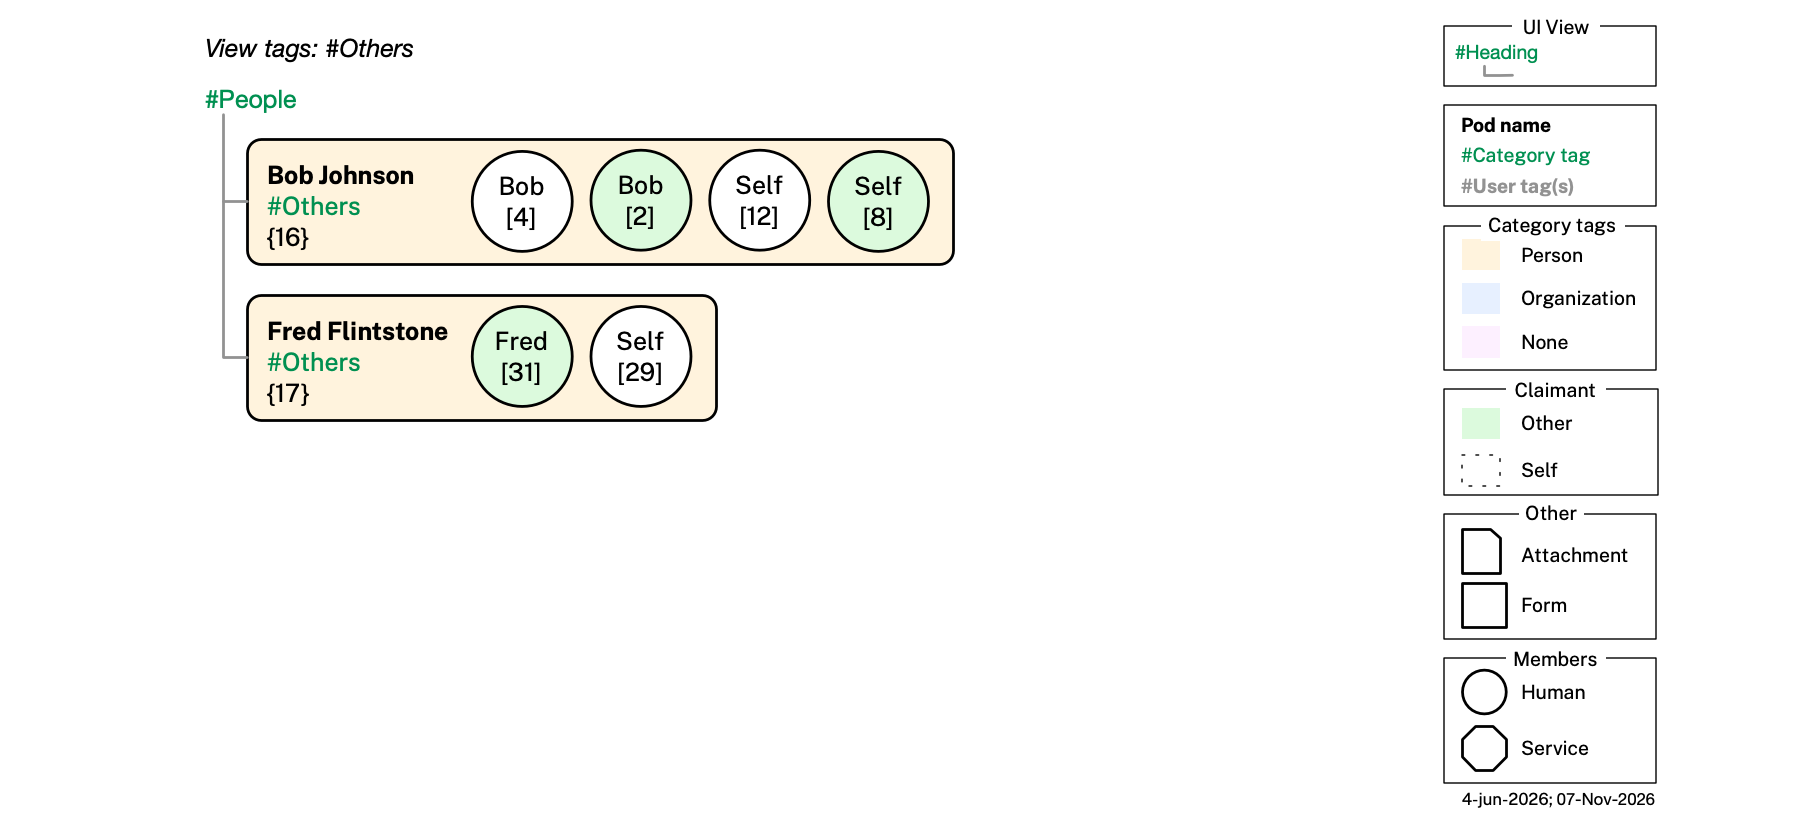
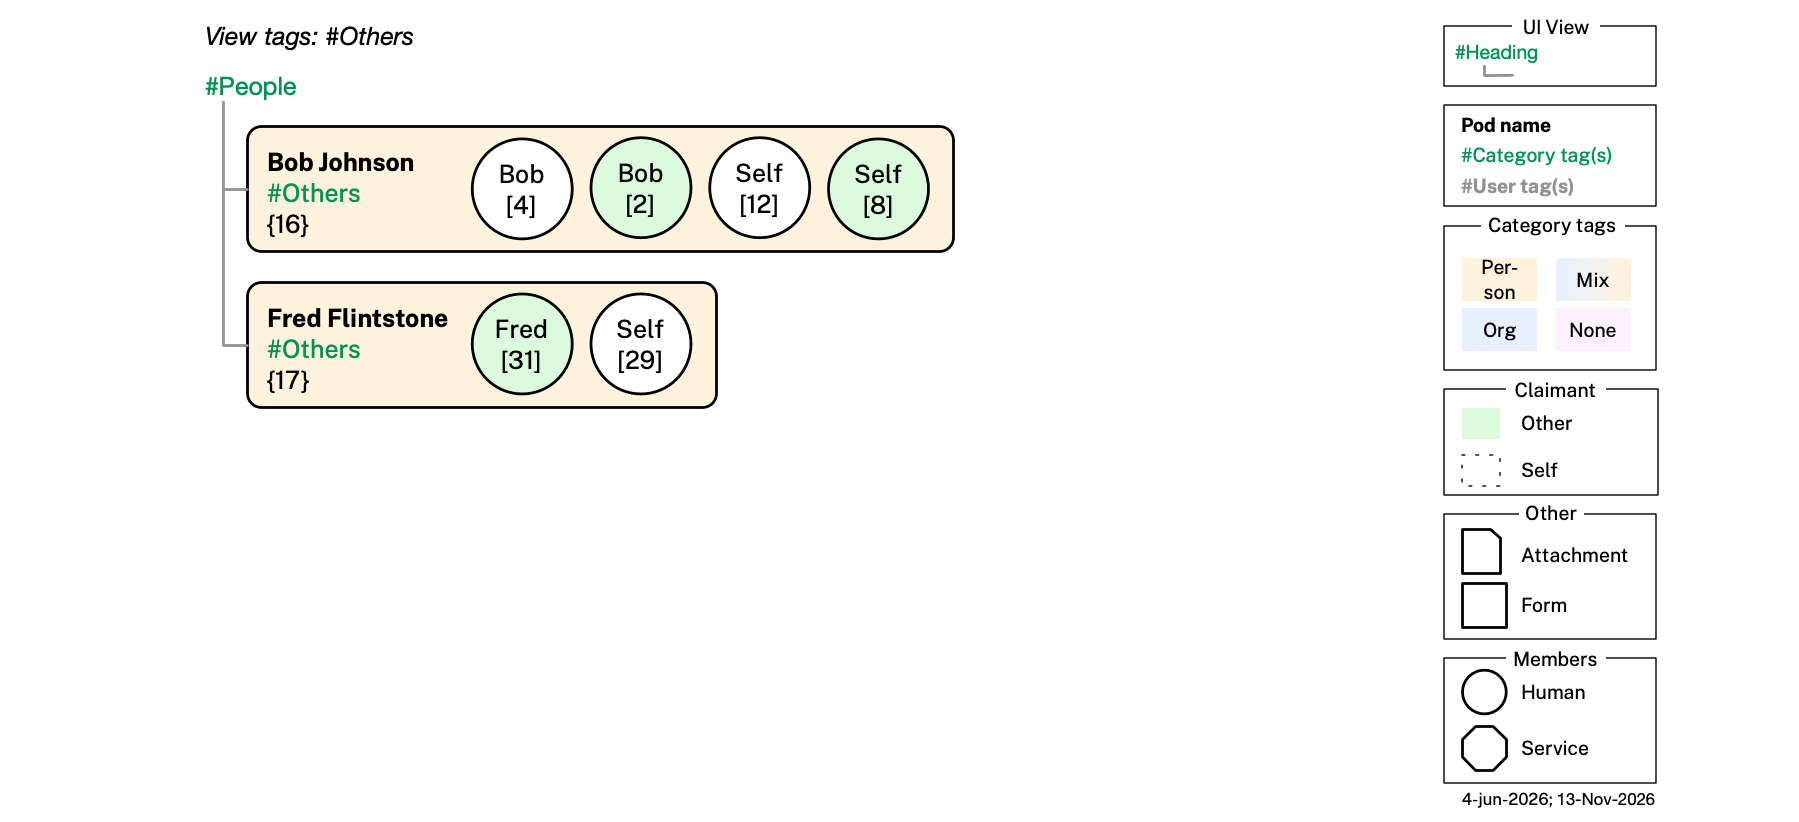
Carry the 2x2 category legend into people.png
people.png's Category tags box becomes the 2x2 Person/Mix/Org/None grid,
and its Pod name box reads "#Category tag(s)". integrity.md's PNG-8 legend
description now uses "#Category tag(s)" too.

Changed region(s): [[0.0934, 0.0304, 0.5292, 0.517], [0.8093, 0.2737, 0.9339, 0.4258], [0.8716, 0.1825, 0.9027, 0.2129]]

diff --git a/integrity.md b/integrity.md
@@ -239,7 +239,7 @@ The split into two leaves is the diagram's substantive claim, and it is a PDN-la
 Its legend is the same six titled boxes the 12 example diagrams carry, stacked in this order: "UI View", "Pod name", "Category tags", "Claimant", "Other", "Members". The identical block appears in 13 diagrams, so a change to it has to be applied thirteen times by hand, the same fan-out PNG-11 warns about. Box by box:
 
 - **UI View** holds a green `#Heading` with a grey connector, standing for a group header (PNG-1i). This diagram draws none; the box is kept so that all 13 legends stay identical.
-- **Pod name** holds the three-line pod-box formula: bold black "Pod name", green "#Category tag", grey "#User tag(s)".
+- **Pod name** holds the three-line pod-box formula: bold black "Pod name", green "#Category tag(s)", grey "#User tag(s)".
 - **Category tags** holds four fill-color swatches in a 2×2 grid, labeled inside each swatch: "Person" (tan) and "Mix" (light-blue-to-tan gradient) on top, "Org" (light blue) and "None" (purple/lavender) below, following PNG-1h's rule over the pod's category tags. "Mix" is a pod whose tags reach both top concepts. "None" is a pod carrying no `pod:categoryTag`, a display convention and not a class.
 - **Claimant** holds two claim-fill swatches, a green "Other" (claimed by someone other than the self) and a dashed "Self" (claimed by the user). Claim fill is a two-state fact; there is no third "Delegate" fill (see PNG-10 and PNG-11).
 - **Other** holds a document icon labeled "Attachment", a pod attachment drawn in a pod box (filled green when it is a credential signed by its issuer, per PNG-10, and never counted as a graph shape, per PNG-1c), and a square labeled "Form", the kind of tool a square stands for.
